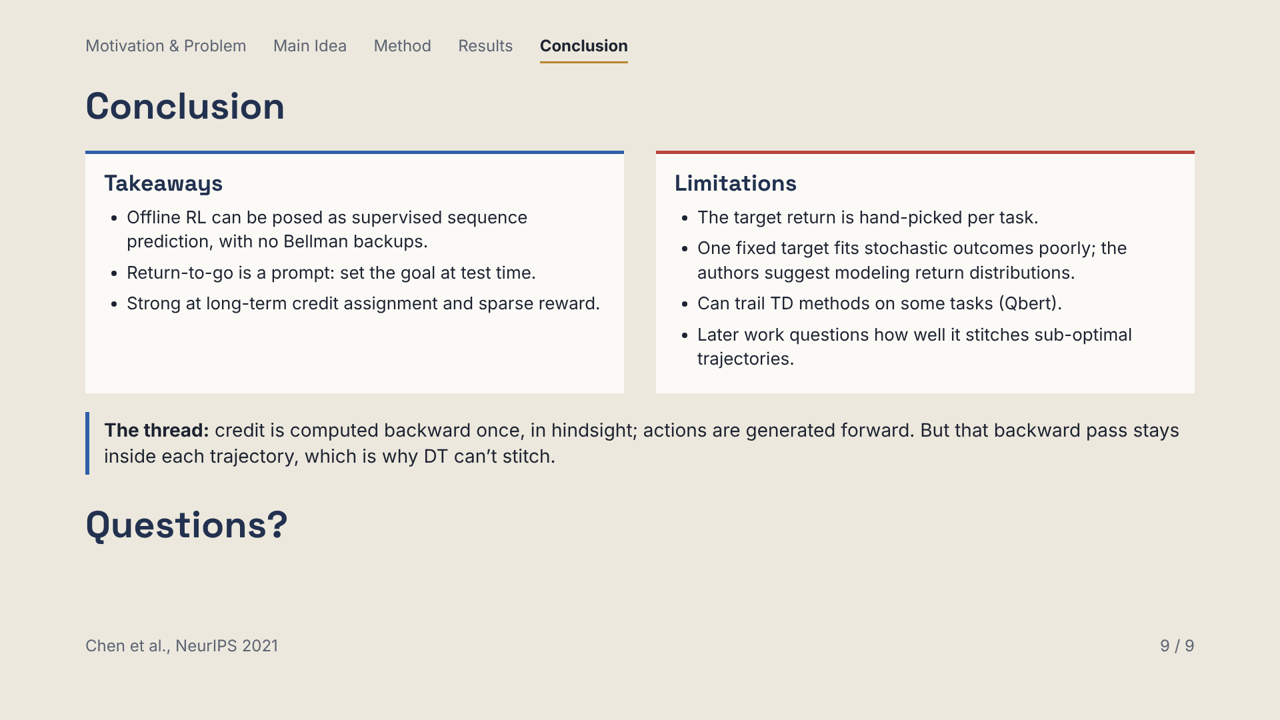
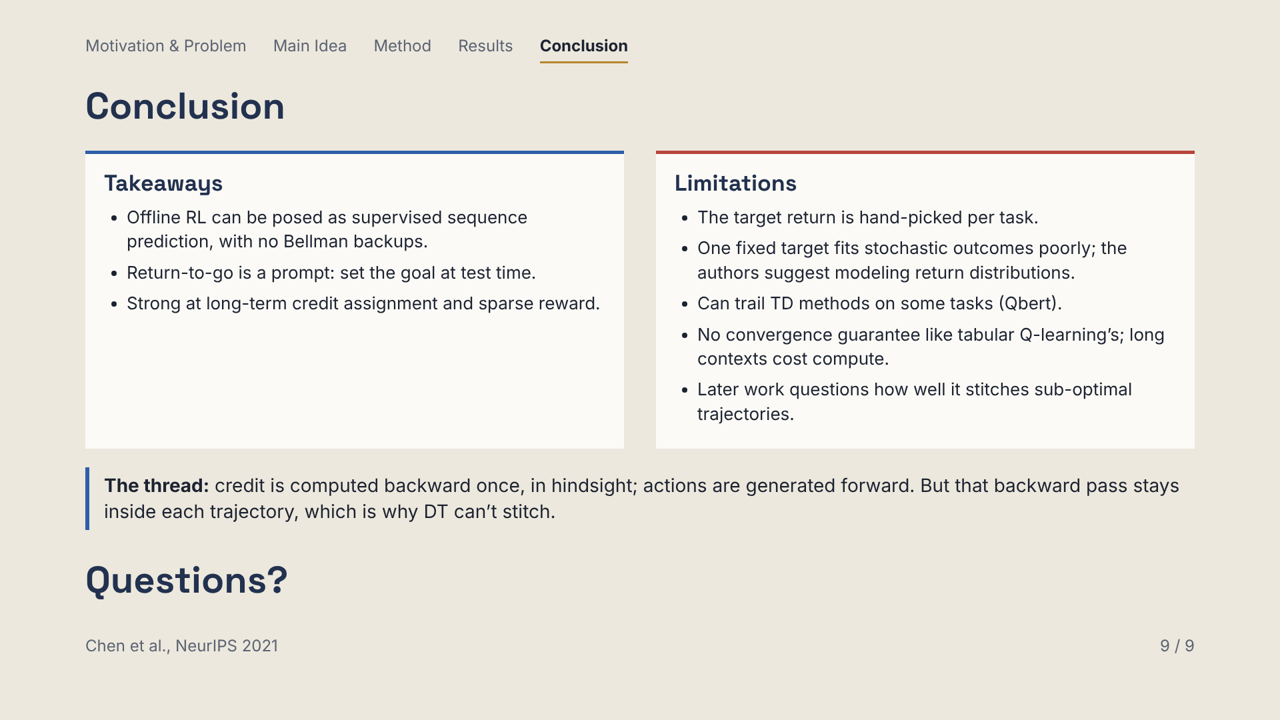
Incorporate CS 885 ideas: attention analogy, credit-assignment lineage, guarantees/compute limits

Changed region(s): [[0.0625, 0.4583, 0.9375, 0.825]]

diff --git a/deck/slides/lineage.html b/deck/slides/lineage.html
@@ -1,16 +1,17 @@
 <section id="lineage" data-transition="fade">
 <div class="prog"><p class="st">Motivation &amp; Problem</p><p class="st">Main Idea</p><p class="st">Method</p><p class="st">Results</p><p class="st">Conclusion</p><p class="st on">Backup: Lineage</p></div>
 <h2 class="rise">Lineage: looking back, looking forward</h2>
-<div class="lin">
+<div class="lin" style="gap:28px;margin-top:-12px;">
 <div class="lcol">
 <p class="lhead rise d1">← Looking back</p>
 <p class="li rise d6"><b>1989 ALVINN:</b> behavior cloning, imitate logged actions</p>
 <p class="li rise d5"><b>2017 Hindsight Experience Replay:</b> relabel data with what was actually achieved</p>
 <p class="li rise d4"><b>2017–20 Transformer, GPT:</b> causal next-token prediction, prompting</p>
-<p class="li rise d3"><b>2019 Upside-Down RL, Reward-Conditioned Policies:</b> command a policy with a desired return</p>
+<p class="li rise d4"><b>2018–19 RUDDER, Hindsight Credit Assignment:</b> move delayed reward back to the actions that earned it</p>
+<p class="li rise d3"><b>2019 Upside-Down RL, Reward-Conditioned Policies, Ghosh et al.:</b> command a policy with a desired return or goal</p>
 <p class="li rise d2"><b>2019–20 BCQ, BEAR, CQL:</b> offline TD with constraints or pessimism</p>
 </div>
-<div class="hub pop d1">
+<div class="hub pop d1" style="width:220px;">
 <p class="a">Decision Transformer</p>
 <p class="b">NeurIPS 2021</p>
 </div>
@@ -24,5 +25,5 @@
 </div>
 </div>
 <div class="foot"><p>Backup slide for Q&amp;A</p><p>Backup</p></div>
-<aside>Backup slide for Q&amp;A, not part of the 8 minutes. Left, looking back: behavior cloning, hindsight relabeling, the GPT stack, and the direct ancestors, Upside-Down RL and reward-conditioned policies, which already commanded a policy with a desired return. Also the offline TD methods DT is compared against. Right, looking forward: Trajectory Transformer was concurrent and plans with beam search. RvS showed the transformer isn't essential. Online DT and Multi-Game DT extended it. Brandfonbrener et al. and Paster et al. formalized the limits: no stitching, and stochastic environments reward luck. Q-learning DT patches stitching by relabeling return-to-go with learned Q-values, which brings a learned backward pass back. Elastic DT, also 2023, tackles stitching differently, by adapting how much history the model sees.</aside>
+<aside>Backup slide for Q&amp;A, not part of the 8 minutes. Left, looking back: behavior cloning, hindsight relabeling, the GPT stack, and earlier credit-assignment methods, RUDDER and Hindsight Credit Assignment, which redistribute delayed reward backward to the actions that earned it. Then the direct ancestors: Upside-Down RL and reward-conditioned policies, which already commanded a policy with a desired return, and Ghosh et al.'s goal-conditioned version, learning to reach goals with supervised learning. Also the offline TD methods DT is compared against. Right, looking forward: Trajectory Transformer was concurrent and plans with beam search. RvS showed the transformer isn't essential. Online DT and Multi-Game DT extended it. Brandfonbrener et al. and Paster et al. formalized the limits: no stitching, and stochastic environments reward luck. Q-learning DT patches stitching by relabeling return-to-go with learned Q-values, which brings a learned backward pass back. Elastic DT, also 2023, tackles stitching differently, by adapting how much history the model sees.</aside>
 </section>

diff --git a/deck/slides/conclusion.html b/deck/slides/conclusion.html
@@ -16,6 +16,7 @@
 <li>The target return is hand-picked per task.</li>
 <li>One fixed target fits stochastic outcomes poorly; the authors suggest modeling return distributions.</li>
 <li>Can trail TD methods on some tasks (Qbert).</li>
+<li>No convergence guarantee like tabular Q-learning’s; long contexts cost compute.</li>
 <li>Later work questions how well it stitches sub-optimal trajectories.</li>
 </ul>
 </div>
@@ -23,5 +24,5 @@
 <p class="thread rise d4"><b>The thread:</b> credit is computed backward once, in hindsight; actions are generated forward. But that backward pass stays inside each trajectory, which is why DT can’t stitch.</p>
 <p class="q rise d5">Questions?</p>
 <div class="foot"><p>Chen et al., NeurIPS 2021</p><p>9 / 9</p></div>
-<aside>About 50 seconds, then Q&amp;A. "To wrap up: offline RL can be framed as sequence prediction, the return works as a prompt, and the approach is especially strong when rewards are sparse or delayed. Limits: you pick the target return by hand; a single return target fits stochastic environments poorly, and the authors point to return distributions as future work; it trails CQL on some games like Qbert; and later papers question how well it combines pieces of sub-optimal trajectories. The one-line thread: credit is computed backward once, in hindsight, and actions are generated forward. Because that backward pass never crosses between trajectories, DT can't stitch. Thank you, happy to take questions."</aside>
+<aside>About 50 seconds, then Q&amp;A. "To wrap up: offline RL can be framed as sequence prediction, the return works as a prompt, and the approach is especially strong when rewards are sparse or delayed. Limits: you pick the target return by hand; a single return target fits stochastic environments poorly, and the authors point to return distributions as future work; it trails CQL on some games like Qbert; unlike tabular Q-learning from lecture, it comes with no convergence guarantee, and long contexts cost compute; and later papers question how well it combines pieces of sub-optimal trajectories. The one-line thread: credit is computed backward once, in hindsight, and actions are generated forward. Because that backward pass never crosses between trajectories, DT can't stitch. Thank you, happy to take questions."</aside>
 </section>

diff --git a/deck/slides/credit.html b/deck/slides/credit.html
@@ -37,6 +37,7 @@
 </div>
 </div>
 <p class="rise d6" style="margin-top:22px;"><b>Takeaway:</b> with sparse, delayed reward, DT keeps working while CQL collapses.</p>
+<p class="note rise d7" style="margin:0;">Like “it” in “the cat drank the milk because it was hungry”: attention looks back to the right earlier token, here the key pickup.</p>
 <div class="foot"><p>Source: Chen et al. (2021), Tables 6 and 7. %BC = BC on successful episodes only.</p><p>8 / 9</p></div>
-<aside>About 50 seconds. "Key-to-Door tests credit assignment: you must pick up a key in the first room to get a reward in the third. Trained only on random trajectories, DT succeeds 72% of the time with 1K trajectories and 95% with 10K, while CQL stays around 13%. Percent-BC, which clones only the successful episodes, does about as well, which is fair to mention. When all Hopper reward is moved to the end of the episode, DT barely changes and CQL collapses. This is the backward story paying off: CQL has to crawl that late reward back step by step, while DT already has it in every return-to-go token. The paper's attention maps show DT attending to the key pickup and the door."</aside>
+<aside>About 50 seconds. "Key-to-Door tests credit assignment: you must pick up a key in the first room to get a reward in the third. Trained only on random trajectories, DT succeeds 72% of the time with 1K trajectories and 95% with 10K, while CQL stays around 13%. Percent-BC, which clones only the successful episodes, does about as well, which is fair to mention. When all Hopper reward is moved to the end of the episode, DT barely changes and CQL collapses. This is the backward story paying off: CQL has to crawl that late reward back step by step, while DT already has it in every return-to-go token. The paper's attention maps show DT attending to the key pickup and the door. It's like resolving "it" in "the cat drank the milk because it was hungry": attention looks back to the right earlier word."</aside>
 </section>

diff --git a/deck/slides/model.html b/deck/slides/model.html
@@ -40,5 +40,5 @@
 </div>
 </div>
 <div class="foot"><p>Chen et al., NeurIPS 2021</p><p>5 / 9</p></div>
-<aside>About 1 minute. "The model takes the last K timesteps, so 3K tokens. Each token type gets its own linear embedding, a conv encoder for Atari frames, plus a learned timestep embedding. A GPT with a causal mask processes them, and the output at each state token predicts the action. The loss is just prediction error on the logged action. There is no Bellman update anywhere. In course terms this is behavior cloning, conditioned on return, rather than Q-learning or actor-critic. The causal mask means it only looks back at history and only predicts forward." Details if asked: K = 30 on Atari except Pong, which uses 50; K = 20 on the Gym tasks.</aside>
+<aside>About 1 minute. "The model takes the last K timesteps, so 3K tokens. Each token type gets its own linear embedding, a conv encoder for Atari frames, plus a learned timestep embedding. A GPT with a causal mask processes them, and the output at each state token predicts the action. The loss is just prediction error on the logged action. There is no Bellman update anywhere. In course terms this is behavior cloning, conditioned on return, rather than Q-learning or actor-critic. Plain behavior cloning needs mostly expert data; conditioning on return is what lets DT learn from mixed-quality data too. The causal mask means it only looks back at history and only predicts forward." Details if asked: K = 30 on Atari except Pong, which uses 50; K = 20 on the Gym tasks.</aside>
 </section>

diff --git a/BACKGROUND.md b/BACKGROUND.md
@@ -30,7 +30,7 @@ Why this works is **hindsight relabeling**. Every trajectory is a correct demons
 
 - **Tokens.** The last K timesteps form a sequence (R̂, s, a, R̂, s, a, …), so 3K tokens. K is 20 on Gym and 30 on Atari (50 on Pong).
 - **Model.** A small GPT-style causal transformer: one embedding per token type, a conv encoder for Atari frames, and a learned timestep embedding. The causal mask means each token looks back at history and the model predicts forward.
-- **Training.** Predict the logged action from the state token. Cross-entropy for discrete actions, MSE for continuous. There is no Bellman update anywhere: this is behavior cloning conditioned on return.
+- **Training.** Predict the logged action from the state token. Cross-entropy for discrete actions, MSE for continuous. There is no Bellman update anywhere: this is behavior cloning conditioned on return. Plain behavior cloning needs mostly expert data. Conditioning on return is what lets DT learn from mixed-quality data.
 - **Acting.** Pick a target return. The model acts, the environment returns a reward, and the target is reduced by that reward. Repeat. The return-to-go counts down as the episode runs forward, like a GPS's remaining distance.
 
 ## Results (slides 7 and 8)
@@ -42,6 +42,7 @@ Why this works is **hindsight relabeling**. Every trajectory is a correct demons
   - Key-to-Door: about 72% success from 1K random trajectories, against about 13% for CQL.
   - Hopper with all reward moved to the end: DT barely changes while CQL collapses. CQL must crawl that late reward back step by step; DT already has it in every return-to-go token.
 - **Context matters.** K = 1 is much worse on Atari.
+- **Attention as credit assignment.** Resolving "it" in "the cat drank the milk because it was hungry" means looking back to the right earlier word. In Key-to-Door, the paper's attention maps show DT looking back to the key pickup and the door.
 
 ## Where the backward pass falls short: limitations (slide 9)
 
@@ -51,6 +52,8 @@ Other limitations:
 
 - **Stochastic environments.** A high return may have been luck, and conditioning on it imitates the luck.
 - **Hand-picked target.** The target return is set per task.
+- **No convergence guarantee.** Tabular Q-learning from lecture has one; DT does not.
+- **Compute.** Long contexts cost compute, and results depend on the context length K.
 
 ## Lineage (backup slide 10)
 
@@ -60,9 +63,11 @@ Other limitations:
 |---|---|---|
 | 1989 | ALVINN (Pomerleau) | Behavior cloning: imitate logged actions |
 | 2017 | Hindsight Experience Replay (Andrychowicz et al.) | Relabel data with what was actually achieved (a conceptual ancestor) |
+| 2018–19 | RUDDER (Arjona-Medina et al.); Hindsight Credit Assignment (Harutyunyan et al.) | Earlier ways to move delayed reward backward to the actions that earned it |
 | 2017–20 | Transformer; GPT, GPT-2, GPT-3 | Causal next-token prediction and prompting |
 | 2019 | Upside-Down RL (Schmidhuber; Srivastava et al.) | Direct ancestor: command a policy with a desired return and horizon |
 | 2019 | Reward-Conditioned Policies (Kumar, Peng, Levine) | Same idea with an MLP, trained by supervised learning |
+| 2019 | Learning to Reach Goals without RL (Ghosh et al.) | Goal-conditioned version: condition on a goal state instead of a return |
 | 2019–20 | BCQ, BEAR, BRAC, AWR, CQL | The offline TD baselines DT is compared against |
 | 2020 | D4RL (Fu et al.); DQN-replay (Agarwal et al.) | The benchmarks |
 
@@ -81,4 +86,4 @@ Other limitations:
 
 **The arc.** DT removed the learned backward pass and showed how far a forward sequence model could go. Follow-up work found the gains come mainly from return conditioning plus supervised learning, and that the missing backward pass is exactly what stitching needs. The strongest descendants bring some of it back.
 
-This lineage covers work through 2023.
+This lineage covers work through 2023. Some additions (the attention analogy, RUDDER and Hindsight Credit Assignment, Ghosh et al., the guarantee and compute limitations) were drawn from Youssef Fathi's CS 885 (Waterloo, Winter 2022) presentation of this paper.

diff --git a/README.md b/README.md
@@ -29,7 +29,7 @@ Motivation & Problem → Main Idea → Method → Results → Conclusion.
 | 7 | Benchmark results | 1:10 |
 | 8 | Credit assignment results | 0:50 |
 | 9 | Conclusion, limitations & the backward/forward thread | 0:50 |
-|   | **Total** | **≈8:00–8:15** |
+|   | **Total** | **≈8:15–8:30** |
 | 10 | Backup: lineage, looking back / forward | Q&A only |
 
 All numbers are from Chen et al. (2021), Tables 1, 2, 6 and 7. The hospital scenario is illustrative; the paper does not evaluate it.
